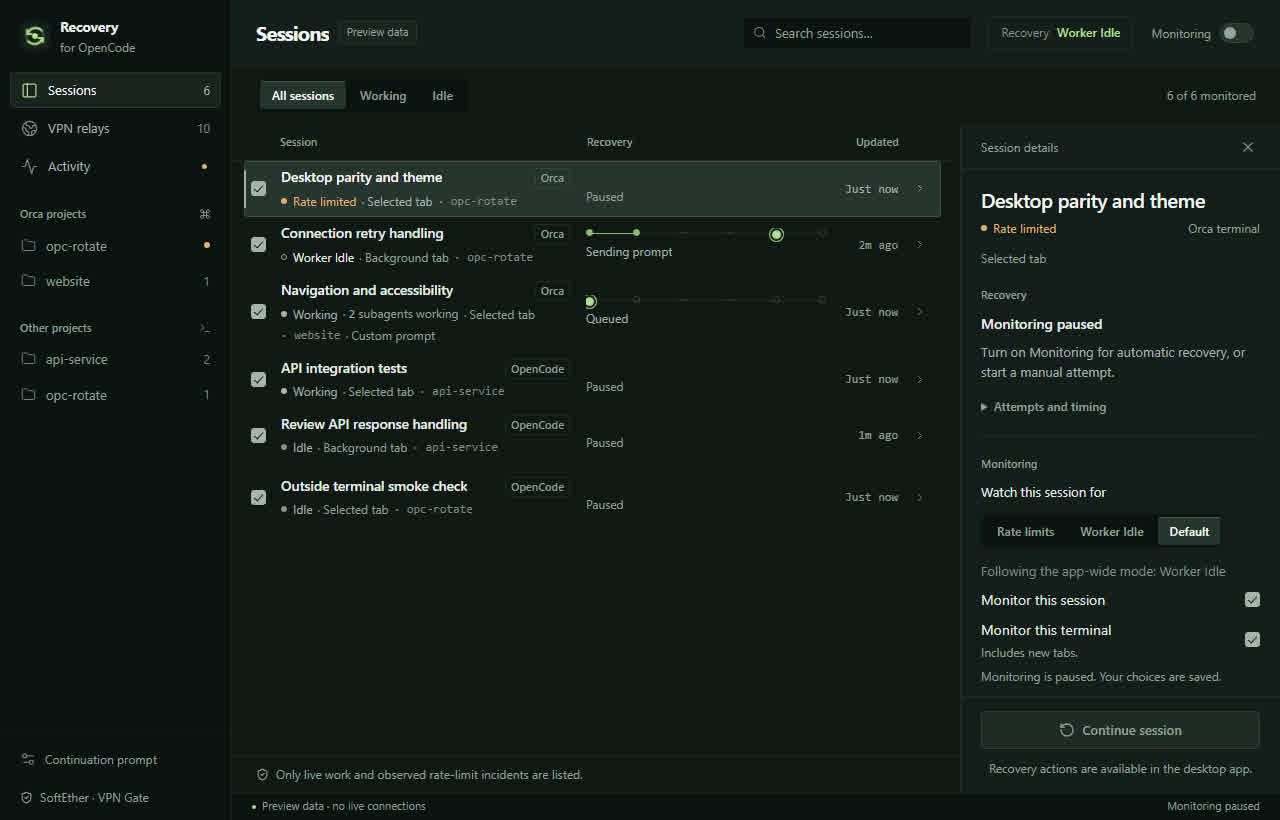
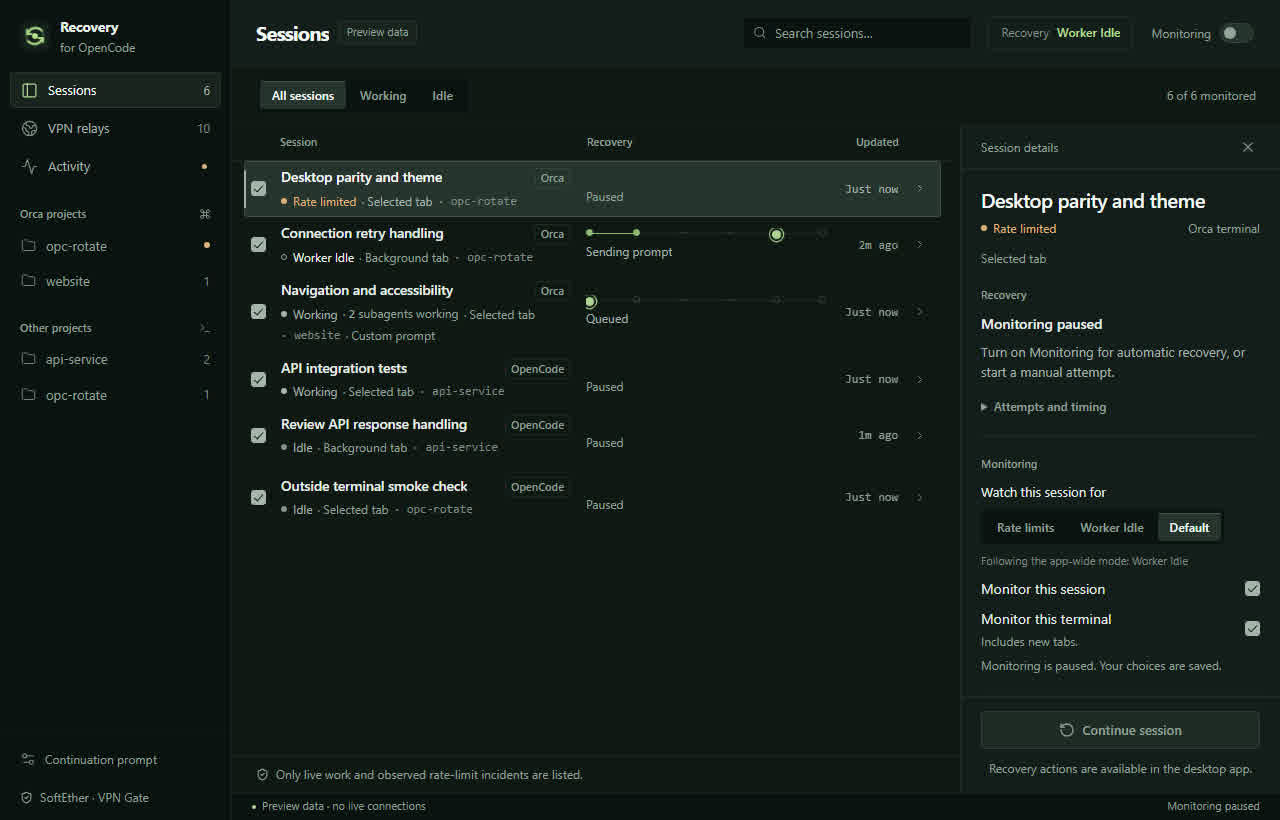
docs: record the single continuation prompt

Changed region(s): [[0.75, 0.6098, 0.9688, 0.8537], [0.9688, 0.7012, 1.0, 0.7927]]

diff --git a/docs/ROADMAP.md b/docs/ROADMAP.md
@@ -30,6 +30,7 @@ Outcome: the Windows dashboard can recover an affected existing session through 
 - [x] Verify project and status filters, arrow-key selection, prompt editing, focus wrapping and Escape, relay sorting and preferences, search, and activity filters in the browser preview. Fixture interactions stay in memory; production assets contain no fixture identifiers or hostnames.
 - [x] Keep a continuation queued on the verified IP when its target is busy; retry prompt delivery after it becomes idle without rotating again. Covered by the recovery scheduling test and controller state review.
 - [x] Add a second watcher mode for finished turns. Each session is watched for **Rate limits** or **Worker Idle**, chosen per session or for all sessions, with the session choice winning over the app-wide default. A Worker Idle recovery sends the continuation prompt only: no relay is connected, no public IP changes, and none of the two IP changes are used, and its route line leaves out the relay and IP-verification stations. The live plugin reports a cleanly finished turn, the number of child sessions still executing, and the operator's own last message, so a stop is continued once and only again after new operator input; the shared-service fallback keeps its previous behavior and never reports a finished turn. Rust tests cover the watcher precedence, the queue without an IP change, one continuation per stop, the exclusion of a rate-limited session in Worker Idle mode, and the route's necessity; 11 Node plugin tests cover the finished-turn and stop-key detection. The browser preview verified both modes, the inspector controls, the **Worker Idle** activity state, the subagent count, and the route bar's disappearance while nothing depends on the VPN route. The production build and the full test suite pass. Live behavior against a real OpenCode client is not verified and stays open below.
+- [x] Keep one continuation prompt. The app used to keep a default prompt per watcher mode, and the editor on screen did not always show the prompt that was actually sent: the sidebar edited the rate-limit prompt while a **Worker Idle** session was sent the other one. There is now one default prompt, "Continue", used by both modes, and the session inspector shows the effective prompt with plain wording: "Used by every session" with **Edit the default**, or "This session's own prompt" with **Use the default**. The sidebar and the inspector now edit the same thing, and the prompt editor no longer asks which mode it belongs to. A prompt saved under the older design is replaced once, and a session's own prompt is untouched. The watcher choice in the inspector also stops stacking: the label, the control and the note sit on their own lines, so a mode button cannot stretch. Rust tests cover the one-time prompt migration; 11 Node plugin tests and 48 Rust tests pass, and `npm run build` passes.
 - [x] Rename the finished-turn watcher to **Worker Idle** and make it the app-wide default. The two modes are **Rate limits** and **Worker Idle**, and the app-wide **Recovery** control in the top bar, immediately to the left of the **Monitoring** switch, reads **Recovery  Worker Idle** or **Recovery  Rate limits** and switches between them; a fresh install starts on **Worker Idle**. The session inspector's **Monitoring** section now offers **Rate limits**, **Worker Idle**, and **Default**, with a line reading **Following the app-wide mode: …** or **Overridden for this session**, so changing the app-wide mode moves every session that follows it while an overridden session keeps its own choice. In **Worker Idle** mode the route bar and the **Provider errors** filter are hidden, the inspector action reads **Continue session** with the helper line **Sends a prompt to this session. The public IP is not changed.**, and the route line draws the two relay stations as short dashes with the line broken across them so the route that was not taken stays visible. A failure breaks the line where it happened: at **New route** for a failed route change and at **Deliver** for a failed continuation. The live station breathes while a recovery moves, and reduced motion stops it. Changing a session's mode cancels the other kind of work queued for it, and a manual recovery follows the session's mode. The persisted `continue` value migrates to `worker-idle` on load. Rust tests cover the precedence, the migration, the shipped default, the route's necessity, and the queue cancellations; 11 Node plugin tests and 48 Rust tests pass, and `npm run build` passes. Live behavior against a real OpenCode client stays open below.
 - [x] Report a shared OpenCode service that has stopped as stopped. A refused connection to the recorded loopback address is reported as the shared service not running rather than as a failed request, so the operator sees what actually happened. Because a service that is gone has no live sessions of its own, it no longer blocks a route change; a service that answers with an error or times out still does. The app still reaches only the recorded service and never hunts for other endpoints. A Rust test covers the refused connection.
 

diff --git a/docs/CONTEXT.md b/docs/CONTEXT.md
@@ -47,7 +47,7 @@ Per-session recovery progress is exposed as `Snapshot.recovery`, separate from O
 - Install only `opc-rotate-presence/tui.js` under OpenCode's plugin directory, respecting `OPENCODE_CONFIG_DIR`. Heartbeats refresh every two seconds and expire after eight seconds; presence contains no prompts or credentials.
 - Match Orca's `ORCA_PANE_KEY` to `tabId:leafId`, not the PTY ID. Deduplicate by exact session ID, preferring Orca ownership; never suppress an entire directory's outside sessions.
 - Address requests to a live exact session/client/service identity. Claim before submitting, persist the incident guard before transport, clean expired requests, and never retry an ambiguous receipt automatically. Do not type prompts into the currently selected terminal tab.
-- The exact built-in prompt for a rate-limit recovery is “Continue from where you stopped after the rate limit”. Migration replaces only the former built-in wording, preserving custom prompts. The Worker Idle mode has its own default, “Continue where you left off.”, and a per-session prompt override wins over either default.
+- There is one built-in prompt, "Continue", used by both watcher modes. Migration replaces a prompt saved under the older two-mode design once, and a per-session prompt override wins over the default.
 - SoftEther is separately installed. Control only `OPCRotate_` profiles and refuse an unrelated active account. Do not enable monitoring or perform a live VPN test just to inspect the UI.
 - Local settings, state, credentials, and generated release files stay outside Git. Source is MIT licensed; preserve third-party notices.
 
@@ -62,6 +62,8 @@ The two-watcher-mode update passed **11 Node and 42 Rust tests** and the product
 The watcher-mode rework renamed the finished-turn mode to **Worker Idle** and made it the app-wide default. The app-wide **Recovery** control sits in the top bar immediately left of the **Monitoring** switch and switches between **Rate limits** and **Worker Idle**; the session inspector offers **Rate limits**, **Worker Idle**, and **Default**, with a line naming the mode the session follows. The persisted `continue` value migrates to `worker-idle` on load. In **Worker Idle** mode the route bar and the **Provider errors** filter are hidden and the inspector action reads **Continue session**; the route line breaks across the two skipped relay stations instead of omitting them, and the live station breathes unless reduced motion is requested. Changing a session's mode cancels the other kind of queued work, and a manual recovery follows the session's mode. The update passed **11 Node and 48 Rust tests** and the production frontend build. The live behavior against a real OpenCode client remains unverified.
 
 A shared OpenCode service that has stopped now reports itself as not running instead of failing the request. A refused connection is treated as a service that is gone, which has no live sessions of its own and therefore cannot block a route change; a service that answers with an error or times out still blocks one. The service is still reached only through the recorded loopback address and password, and the app never hunts for other endpoints.
+
+There is now one continuation prompt. The app used to keep a default per watcher mode, and the editor on screen did not always show the prompt that was sent: the sidebar edited the rate-limit prompt while a **Worker Idle** session received the other one. The default is "Continue", used by both modes, and the session inspector shows the effective prompt with plain wording: "Used by every session" beside **Edit the default**, or "This session's own prompt" beside **Use the default**. The sidebar and the inspector now edit the same prompt. A prompt saved under the older design is replaced once, and a session's own prompt is untouched. The watcher choice in the inspector also stops stacking: the label, the control and the note sit on their own lines, so a mode button cannot stretch. The update passed **11 Node and 48 Rust tests** and the production frontend build.
 
 The pre-release baseline passed **9 Node plugin tests and 31 Rust tests**, TypeScript/Vite build, and NSIS packaging. Windows helper coverage verifies no console handle while output is captured. Browser preview checks covered the requested project hierarchy, monitoring controls, keyboard behavior, empty states, desktop sizes, and inspected text contrast. Native checks confirmed live idle/background tabs and the free-tier provider error without triggering recovery.
 

diff --git a/docs/USAGE.md b/docs/USAGE.md
@@ -40,11 +40,11 @@ The two modes are exclusive per session. A session watched for finished turns th
 
 Changing one session's mode cancels the other kind of work queued for it. A session switched to **Worker Idle** no longer keeps a queued route change, and one switched to **Rate limits** no longer keeps a queued continuation.
 
-The **Worker Idle** mode has its own default continuation prompt, stored separately from the rate-limit prompt:
+Both modes send the same default continuation prompt:
 
-> Continue where you left off.
+> Continue
 
-A session's own prompt override wins over either default. The sidebar's **Continuation prompt** edits the rate-limit default; the session inspector's **Continuation prompt** editor overrides it for that session only.
+Edit it with **Continuation prompt** in the sidebar, or set a session override in the inspector. A session's own prompt override wins over the default. The editor on screen always shows the prompt that will actually be sent, so there is no separate prompt per mode to keep track of.
 
 **Subagents.** The live OpenCode plugin reports how many child sessions of a session are still executing. The session row shows the count, for example **2 subagents working**. A session with a live subagent is not treated as finished, so its parent is not continued while a child session is still working.
 
@@ -82,11 +82,11 @@ The **Worker Idle** mode runs only the delivery step: it sends the continuation 
 
 Request claims, SDK receipts, and a persisted incident guard prevent automatic duplicate submissions. An ambiguous submission is not retried automatically; inspect the session before taking another action. The app touches only profiles named with its `OPCRotate_` prefix and refuses to replace an unrelated connected SoftEther profile.
 
-The default continuation prompt for a rate-limit recovery is:
+The default continuation prompt is:
 
-> Continue from where you stopped after the rate limit
+> Continue
 
-Edit it with **Continuation prompt** in the sidebar, or set a session override in its inspector. Custom prompts survive updates. The **Worker Idle** mode has its own default, "Continue where you left off."; edit it with **Edit default** under the prompt in the inspector, where the default for the session's current mode is shown. A session override wins over either default.
+Edit it with **Continuation prompt** in the sidebar, or set a session override in its inspector. Custom prompts survive updates.
 
 ### Retry timing and per-session progress
 

diff --git a/PRODUCT.md b/PRODUCT.md
@@ -62,7 +62,7 @@ The mechanism a neighboring product could not copy truthfully is exactness of de
 - In the **Worker Idle** mode the trigger is a cleanly finished turn instead of a provider failure. A **Worker Idle** recovery sends the continuation prompt only: it connects no relay, changes no public IP, and consumes none of the two verified IP changes.
 - The two modes are exclusive per session. A rate-limited session watched for finished turns is still displayed as rate limited, but it is not recovered automatically, because a prompt cannot clear a rate limit.
 - Changing a session's watcher mode cancels the other kind of work queued for it: a session switched to **Worker Idle** no longer keeps a queued route change, and one switched to **Rate limits** no longer keeps a queued continuation. A manual recovery follows the session's mode, so **Continue session** queues a prompt-only continuation and **Recover session** queues a route change.
-- The **Worker Idle** mode carries its own default continuation prompt, "Continue where you left off.", separate from the rate-limit prompt. A per-session prompt override wins over either default.
+- There is one default continuation prompt, "Continue", used by both watcher modes. A per-session prompt override wins over the default. The editor on screen always shows the prompt that will actually be sent.
 - Sequence: wait for other detected work to go idle, rank eligible relays by low ping and high advertised speed, try at most five relays with up to twenty seconds per connection, require both a connected SoftEther account and a changed public IPv4 address checked through ipify, then deliver the continuation to the exact affected session while preserving the selected tab.
 - A session stops after two verified IP changes. There is no timed reset, and the count survives restarts. A manual action queues another attempt that still waits for busy work and still verifies a changed IP.
 - Requests are claimed once, receipts come back from the client, and the incident guard is persisted before transport. An ambiguous submission is shown for inspection and never retried automatically. Unknown execution status blocks VPN changes.

diff --git a/DESIGN.md b/DESIGN.md
@@ -461,8 +461,12 @@ Borders are directional where they appear at all: a dark top edge and a faint li
 - **Rule:** a dot never carries meaning alone. It always sits beside the word **Idle**, **Working**, **Worker Idle**, **Rate limited**, **Provider blocked**, or **Status unavailable**.
 
 ### Watcher Choice
-- **Shape:** two controls. The app-wide one is a single button in the toolbar, immediately beside the Monitoring switch, reading **Recovery** followed by the current mode. The per-session one is a three-option segmented control in the inspector: **Rate limits**, **Worker Idle**, **Default**, with a note that says whether the session is following the app-wide mode or has its own.
+- **Shape:** two controls. The app-wide one is a single button in the toolbar, immediately beside the Monitoring switch, reading **Recovery** followed by the current mode. The per-session one is a three-option segmented control in the inspector: **Rate limits**, **Worker Idle**, **Default**, with a note that says whether the session is following the app-wide mode or has its own. The label, the control and the note each sit on their own line, so nothing in the row can stretch and a mode button never grows a tall block.
 - **Rule:** the two modes are **Rate limits** and **Worker Idle**, and the choice is never a colour. A watcher that does not touch the network is also the one that removes the VPN route from the screen, and the interface says so by having nothing to show.
+
+### Continuation Prompt
+- **Shape:** one prompt, not one per mode. The inspector shows the prompt that will actually be sent, with a plain line beneath it: **Used by every session** beside **Edit the default**, or **This session's own prompt** beside **Use the default**.
+- **Rule:** the editor on screen is never about a different prompt than the one being sent. There is no mode wording in the prompt's own interface, because the mode decides when the prompt goes out, not what it says.
 
 ### Activity Rows
 - **Style:** `76px` minimum-height rows separated by hairlines, with a `24px` severity marker on the left, the level above the prose, and a monospaced timestamp on the right.

diff --git a/README.md b/README.md
@@ -36,7 +36,7 @@ Installers will be listed under [GitHub Releases](https://github.com/edisonmalas
 
 **Worker Idle** watches for a session whose turn finished cleanly and sends it a continuation prompt. It never touches the network, and the VPN parts of the interface are hidden while it is the mode in use. A session that still has subagents working is never treated as idle.
 
-The two modes use different default continuations, and you can edit either of them globally or per session. Recovery preserves your terminals and the selected OpenCode tab.
+Both modes send the same default continuation, **"Continue"**, which you can edit globally or per session. Recovery preserves your terminals and the selected OpenCode tab.
 
 See [setup, usage, and troubleshooting](docs/USAGE.md) for requirements, delivery safeguards, local data, and uninstall steps.
 
